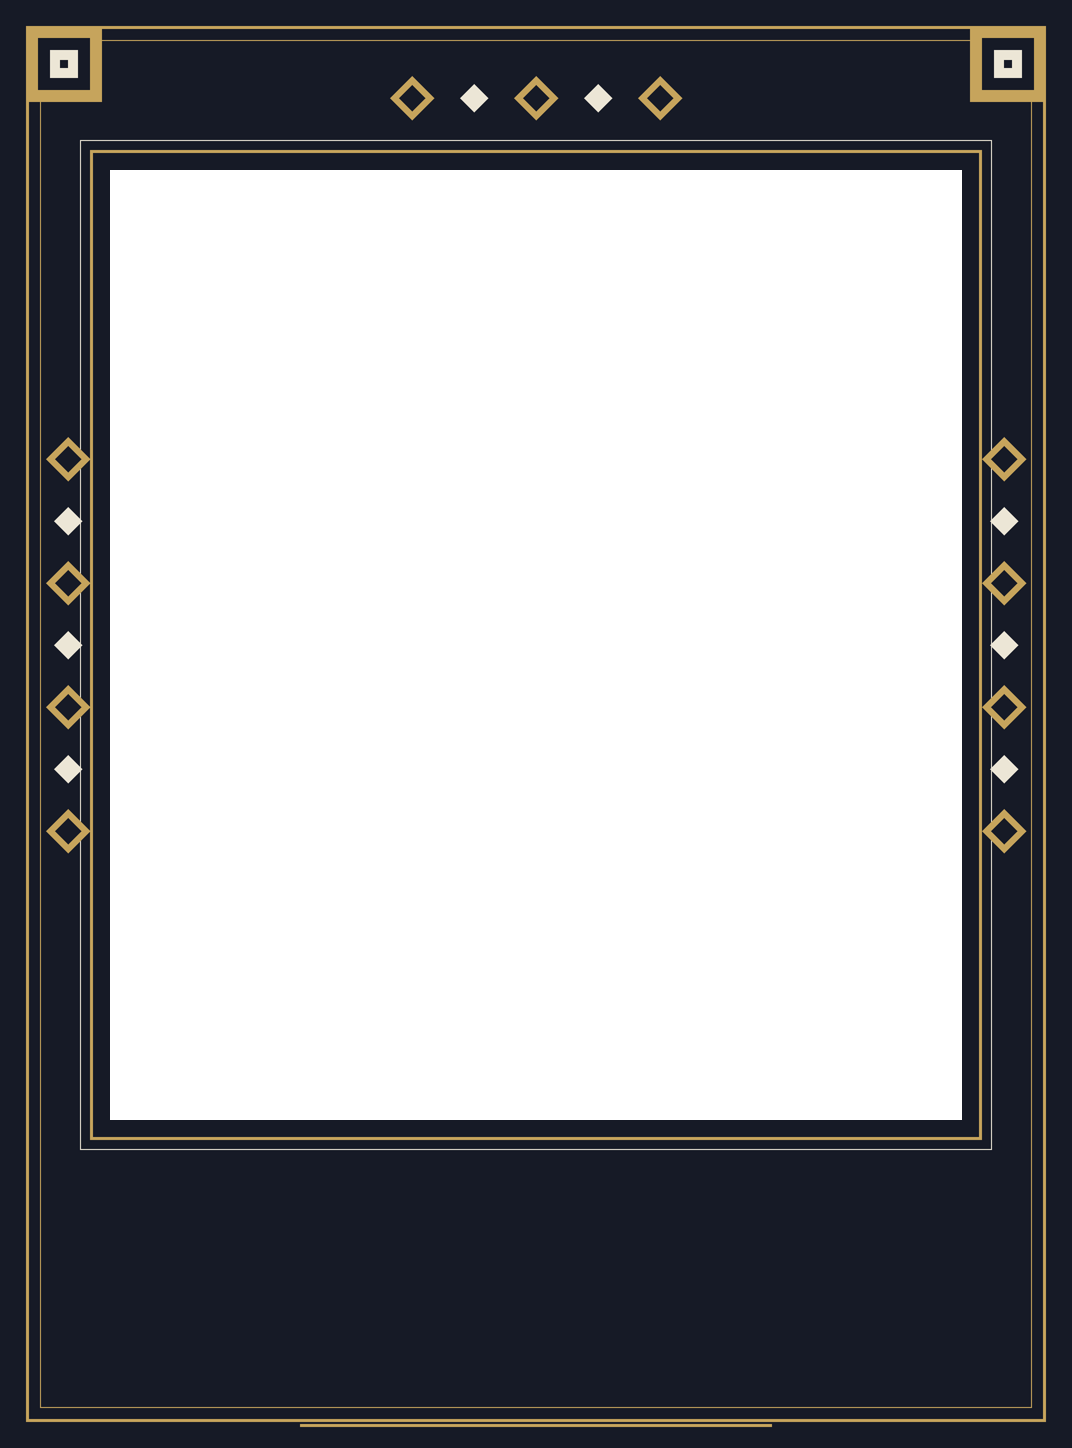
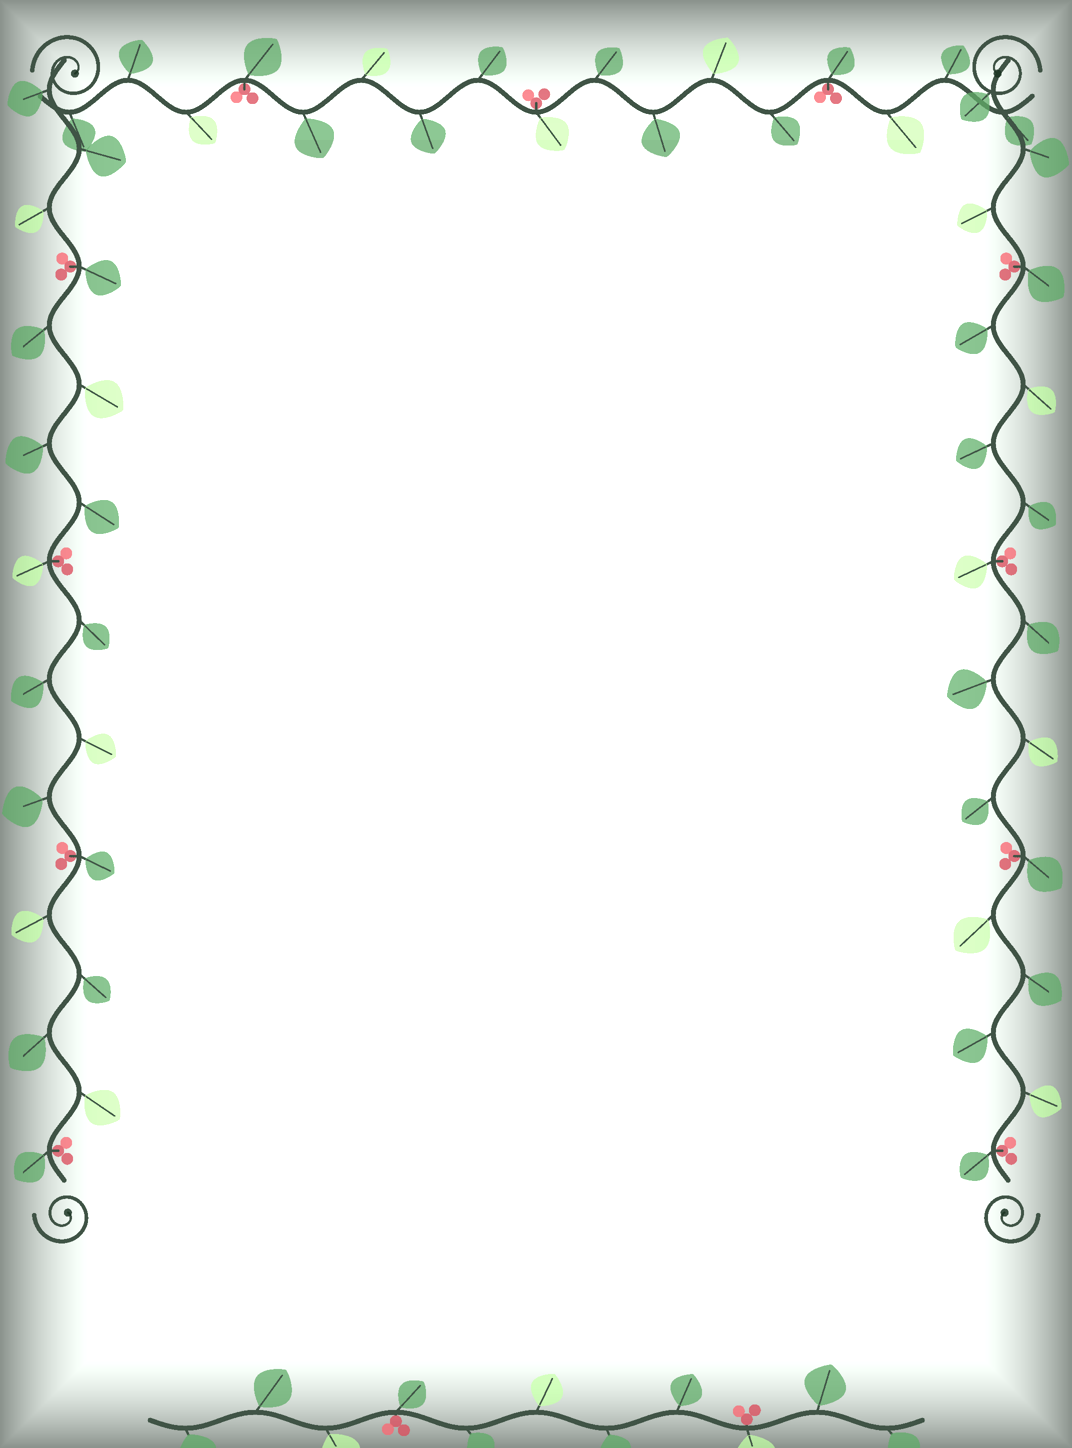
Semi-transparent vines frame; show only progress, bar and counts
New generator tools/mkvines draws wavy stems, leaves, berries and corner
curls at partial alpha over the whole panel, with a soft dark edge band so
pale covers don't swallow the leaves. Unlike the art-deco frame it has no
hole, so config.ini sets cover_window to the full panel and the cover shows
through the vines; text_offset drops to 0 since there are no rules to dodge.
The previous frame is kept as assets/frame-artdeco.png.

config.ini now turns off show_title and show_date, leaving the percentage,
progress bar and the finished/on-device counts.

Docs updated for both generators and the launcher fix.

diff --git a/tools/mkvines/main.go b/tools/mkvines/main.go
@@ -1,0 +1,298 @@
+// Generates assets/frame.png: a semi-transparent vine border.
+//
+// Unlike mkframe this draws no hole. The whole canvas starts fully
+// transparent and the vines are laid over it with partial alpha, so with
+// cover_window = 0,0,1072,1448 the cover fills the panel and shows through
+// the leaves. A soft dark band along the edges keeps the vines legible over
+// any cover, light or dark.
+//
+//   - 1072x1448, the panel size, used pixel-for-pixel
+//   - vines along the top, left and right; the sides stop above the stats
+//     block; one thin run along the very bottom, below the text
+//   - three colours, bold leaf shapes: the Kaleido panel mutes saturation and
+//     drops effective resolution, so fine tendrils would mush
+//
+// Everything is drawn at 2x and downsampled for smooth edges.
+//
+//	go run ./tools/mkvines assets/frame.png
+package main
+
+import (
+	"fmt"
+	"image"
+	"image/color"
+	"image/draw"
+	"image/png"
+	"math"
+	"os"
+
+	xdraw "golang.org/x/image/draw"
+)
+
+const (
+	W, H = 1072, 1448
+	SS   = 2 // supersampling factor
+)
+
+// Alpha is the "semi" in semi-transparent: 255 would hide the cover.
+var (
+	ink   = color.RGBA{24, 44, 30, 215}  // stems, midribs
+	leaf  = color.RGBA{72, 128, 78, 190} // leaves
+	light = color.RGBA{132, 176, 110, 170}
+	berry = color.RGBA{172, 62, 74, 200}
+	band  = color.RGBA{18, 26, 20, 255} // edge vignette, alpha set per pixel
+)
+
+const (
+	bandWidth = 140 // px at 1x the vignette reaches in from each edge
+	bandAlpha = 135 // alpha at the very edge
+)
+
+func main() {
+	out := "assets/frame.png"
+	if len(os.Args) > 1 {
+		out = os.Args[1]
+	}
+
+	big := image.NewRGBA(image.Rect(0, 0, W*SS, H*SS))
+
+	vignette(big)
+
+	// The stats block starts around y=1260 with title and date off; the side
+	// vines curl to an end well above it, and the bottom run sits under the
+	// last text line (~1380).
+	//
+	// Each vine: start, end, wave amplitude, number of leaves.
+	vine(big, pt(40, 96), pt(W-40, 96), 16, 17)      // top
+	vine(big, pt(64, 60), pt(64, 1180), 15, 19)      // left
+	vine(big, pt(W-64, 60), pt(W-64, 1180), 15, 19)  // right
+	vine(big, pt(150, 1420), pt(W-150, 1420), 8, 11) // bottom, thin
+
+	// Corner curls tie the runs together.
+	curl(big, pt(70, 70), 38, 0)
+	curl(big, pt(W-70, 70), 38, 1)
+	curl(big, pt(64, 1215), 30, 2)
+	curl(big, pt(W-64, 1215), 30, 3)
+
+	img := image.NewRGBA(image.Rect(0, 0, W, H))
+	xdraw.CatmullRom.Scale(img, img.Bounds(), big, big.Bounds(), draw.Src, nil)
+
+	f, err := os.Create(out)
+	if err != nil {
+		panic(err)
+	}
+	defer f.Close()
+	if err := png.Encode(f, img); err != nil {
+		panic(err)
+	}
+	fmt.Printf("wrote %s — semi-transparent overlay, no window (set cover_window = 0,0,%d,%d)\n",
+		out, W, H)
+}
+
+// --- geometry ----------------------------------------------------------------
+
+type p2 struct{ x, y float64 }
+
+func pt(x, y float64) p2 { return p2{x * SS, y * SS} }
+
+// A soft dark band along all four edges so pale covers don't swallow the
+// leaves. Alpha falls off with a gentle curve to nothing at bandWidth.
+func vignette(img *image.RGBA) {
+	b := img.Bounds()
+	bw := float64(bandWidth * SS)
+	for y := 0; y < b.Max.Y; y++ {
+		for x := 0; x < b.Max.X; x++ {
+			d := math.Min(math.Min(float64(x), float64(b.Max.X-1-x)),
+				math.Min(float64(y), float64(b.Max.Y-1-y)))
+			if d >= bw {
+				continue
+			}
+			t := 1 - d/bw
+			a := uint8(bandAlpha * t * t)
+			c := band
+			c.A = a
+			blend(img, x, y, c)
+		}
+	}
+}
+
+// A wavy stem from a to b with leaves alternating sides, a berry cluster
+// every few nodes.
+func vine(img *image.RGBA, a, b p2, amp float64, leaves int) {
+	dx, dy := b.x-a.x, b.y-a.y
+	length := math.Hypot(dx, dy)
+	ux, uy := dx/length, dy/length // along
+	nx, ny := -uy, ux              // across
+	amp *= SS
+	waves := float64(leaves) / 2
+
+	stemW := 5.0 * SS
+	prev := a
+	steps := int(length / 2)
+	for i := 1; i <= steps; i++ {
+		t := float64(i) / float64(steps)
+		off := amp * math.Sin(t*waves*2*math.Pi)
+		q := p2{a.x + dx*t + nx*off, a.y + dy*t + ny*off}
+		segment(img, prev, q, stemW, ink)
+		prev = q
+	}
+
+	for i := 0; i < leaves; i++ {
+		t := (float64(i) + 0.5) / float64(leaves)
+		off := amp * math.Sin(t*waves*2*math.Pi)
+		base := p2{a.x + dx*t + nx*off, a.y + dy*t + ny*off}
+		side := 1.0
+		if i%2 == 1 {
+			side = -1
+		}
+		// Leaves lean forward along the stem, sticking out to alternate
+		// sides. A little deterministic jitter in angle and size keeps the
+		// run from reading as a string of fairy lights.
+		j := jitter(i, a)
+		ang := math.Atan2(uy, ux) + side*(0.8+0.5*j)
+		leafLen := (32 + 14*jitter(i+7, a)) * SS
+		leafW := leafLen * (0.42 + 0.08*j)
+		col := leaf
+		if i%3 == 2 {
+			col = light
+		}
+		// A short stalk, then the leaf.
+		stalk := 7.0 * SS
+		tip := p2{base.x + math.Cos(ang)*stalk, base.y + math.Sin(ang)*stalk}
+		segment(img, base, tip, 2.4*SS, ink)
+		drawLeaf(img, tip, ang, leafLen, leafW, col)
+		if i%5 == 3 {
+			berries(img, base, -side, math.Atan2(uy, ux))
+		}
+	}
+}
+
+// A repeatable pseudo-random value in [0,1) — no rand, so the output is
+// identical on every run.
+func jitter(i int, seed p2) float64 {
+	v := math.Sin(float64(i)*12.9898+seed.x*0.013+seed.y*0.007) * 43758.5453
+	return v - math.Floor(v)
+}
+
+// Three overlapping berries on the opposite side to the nearest leaf.
+func berries(img *image.RGBA, base p2, side, ang float64) {
+	nx, ny := -math.Sin(ang), math.Cos(ang)
+	r := 6.0 * SS
+	for i, o := range []p2{{0, 9}, {-8, 17}, {8, 18}} {
+		c := p2{base.x + nx*side*o.y*SS + math.Cos(ang)*o.x*SS,
+			base.y + ny*side*o.y*SS + math.Sin(ang)*o.x*SS}
+		col := berry
+		if i == 1 {
+			col.R, col.G, col.B = 196, 84, 92
+		}
+		disc(img, c, r, col)
+	}
+	// A short stalk joining them to the stem.
+	segment(img, base, p2{base.x + nx*side*9*SS, base.y + ny*side*9*SS},
+		2.5*SS, ink)
+}
+
+// A spiral of ~1.6 turns, opening in one of four directions.
+func curl(img *image.RGBA, c p2, r float64, quadrant int) {
+	r *= SS
+	start := []float64{math.Pi, 0, math.Pi, 0}[quadrant]
+	dir := []float64{1, -1, -1, 1}[quadrant]
+	prev := p2{}
+	n := 140
+	for i := 0; i <= n; i++ {
+		t := float64(i) / float64(n)
+		ang := start + dir*t*1.6*2*math.Pi
+		rad := r * (1 - 0.85*t)
+		q := p2{c.x + rad*math.Cos(ang), c.y + rad*math.Sin(ang)}
+		if i > 0 {
+			segment(img, prev, q, (4.5-2.5*t)*SS, ink)
+		}
+		prev = q
+	}
+	disc(img, prev, 4*SS, ink)
+}
+
+// A pointed leaf: base at p, tip at p + len along ang, half-width following
+// a sine so it swells in the middle and comes to a point both ends; a midrib.
+func drawLeaf(img *image.RGBA, base p2, ang, length, width float64, col color.RGBA) {
+	cx, sx := math.Cos(ang), math.Sin(ang)
+	// bounding box
+	x0 := int(math.Min(base.x, base.x+cx*length) - width - 2)
+	x1 := int(math.Max(base.x, base.x+cx*length) + width + 2)
+	y0 := int(math.Min(base.y, base.y+sx*length) - width - 2)
+	y1 := int(math.Max(base.y, base.y+sx*length) + width + 2)
+	for y := y0; y <= y1; y++ {
+		for x := x0; x <= x1; x++ {
+			// local coords: u along the leaf, v across
+			dx, dy := float64(x)-base.x, float64(y)-base.y
+			u := dx*cx + dy*sx
+			v := -dx*sx + dy*cx
+			if u < 0 || u > length {
+				continue
+			}
+			hw := width * math.Pow(math.Sin(math.Pi*u/length), 0.8)
+			if math.Abs(v) <= hw {
+				blend(img, x, y, col)
+			}
+		}
+	}
+	// midrib, stopping short of the tip
+	segment(img, base, p2{base.x + cx*length*0.85, base.y + sx*length*0.85},
+		1.6*SS, ink)
+}
+
+// --- rasterising -------------------------------------------------------------
+
+func disc(img *image.RGBA, c p2, r float64, col color.RGBA) {
+	for y := int(c.y - r - 1); y <= int(c.y+r+1); y++ {
+		for x := int(c.x - r - 1); x <= int(c.x+r+1); x++ {
+			if math.Hypot(float64(x)-c.x, float64(y)-c.y) <= r {
+				blend(img, x, y, col)
+			}
+		}
+	}
+}
+
+// A thick line, stamped as a run of discs — crude but fine at 2x.
+func segment(img *image.RGBA, a, b p2, w float64, col color.RGBA) {
+	n := int(math.Hypot(b.x-a.x, b.y-a.y)/(w/3)) + 1
+	for i := 0; i <= n; i++ {
+		t := float64(i) / float64(n)
+		// Stamping discs would multiply alpha where they overlap, so write
+		// them with Src semantics: a stroke has one flat alpha.
+		stamp(img, p2{a.x + (b.x-a.x)*t, a.y + (b.y-a.y)*t}, w/2, col)
+	}
+}
+
+func stamp(img *image.RGBA, c p2, r float64, col color.RGBA) {
+	for y := int(c.y - r - 1); y <= int(c.y+r+1); y++ {
+		for x := int(c.x - r - 1); x <= int(c.x+r+1); x++ {
+			if math.Hypot(float64(x)-c.x, float64(y)-c.y) <= r {
+				set(img, x, y, col)
+			}
+		}
+	}
+}
+
+// Writes col over whatever is there ("over" compositing). Used for leaves
+// and the vignette, which are single passes and never self-overlap.
+func blend(img *image.RGBA, x, y int, col color.RGBA) {
+	if !(image.Point{x, y}).In(img.Bounds()) {
+		return
+	}
+	draw.Draw(img, image.Rect(x, y, x+1, y+1), &image.Uniform{col},
+		image.Point{}, draw.Over)
+}
+
+// Writes col, keeping whichever alpha is higher, so overlapping stamps of the
+// same stroke stay one flat colour instead of darkening.
+func set(img *image.RGBA, x, y int, col color.RGBA) {
+	if !(image.Point{x, y}).In(img.Bounds()) {
+		return
+	}
+	if img.RGBAAt(x, y).A >= col.A {
+		return
+	}
+	draw.Draw(img, image.Rect(x, y, x+1, y+1), &image.Uniform{col},
+		image.Point{}, draw.Src)
+}

diff --git a/GETTING-STARTED.md b/GETTING-STARTED.md
@@ -408,16 +408,21 @@ surrounds it.
 You never have to measure or configure anything: the program finds the hole by
 looking for the transparent part of your drawing.
 
-There's a working example already installed: `assets/frame.png`, a dark
-art-deco border. Replace it with your own whenever you like, or delete
-`.adds/kobo-screensaver/assets/frame.dat` from the Kobo to go back to a
+There are two generated examples. The one installed is `assets/frame.png`,
+semi-transparent vines laid over the whole cover — it has no hole at all, so
+`config.ini` sets `cover_window = 0,0,1072,1448` to put the cover behind the
+entire panel. The other is `assets/frame-artdeco.png`, a dark art-deco border
+with a hole (use `cover_window = auto` with that one, and `text_offset = 32`
+to clear its inner rules). Replace either with your own whenever you like, or
+delete `.adds/kobo-screensaver/assets/frame.dat` from the Kobo to go back to a
 full-screen cover with no decoration.
 
-To regenerate the example (or tweak its colours and shapes, which are all near
-the top of the file):
+To regenerate either (or tweak colours, alpha and shapes, which are all near
+the top of each file):
 
 ```bash
-go run ./tools/mkframe assets/frame.png
+go run ./tools/mkvines assets/frame.png
+go run ./tools/mkframe assets/frame-artdeco.png
 ```
 
 ### How to draw one

diff --git a/README.md b/README.md
@@ -48,7 +48,7 @@ purchases have the MimeType `application/x-kobo-epub+zip`, so a filter of
 whitelist on `%epub%` instead. That also keeps out the PNG trigger icons KFMon
 relies on, which Nickel indexes as content and which count as *finished books*
 once tapped. The device's own eLabel leaflet is excluded by path.
-| Timestamp | render time |
+| Timestamp | render time (`show_date`) |
 
 Each is switchable in `config.ini`.
 
@@ -81,7 +81,9 @@ recorded, and `show_time_spent` / `show_time_left` are the honest substitutes.
 1. **KFMon** — launches the watcher when you tap its library tile. KFMon has
    no autostart-on-boot for watched actions, so you tap the tile once after
    each reboot (not after each sleep — sleeping doesn't stop it). From the
-   MobileRead thread; extract
+   MobileRead thread. `start.sh` checks `/proc` for a running watcher rather
+   than trusting a saved PID — a PID saved before a reboot gets reused by
+   Nickel, which used to make the tile silently do nothing. Extract
    the ZIP to the USB root (use "Extract to", don't drag files manually — the
    hidden directory structure must be preserved). Prefer the `OCP-KFMon-*.zip`
    one-click variant if it's on the thread; the other one-click packages bundle
